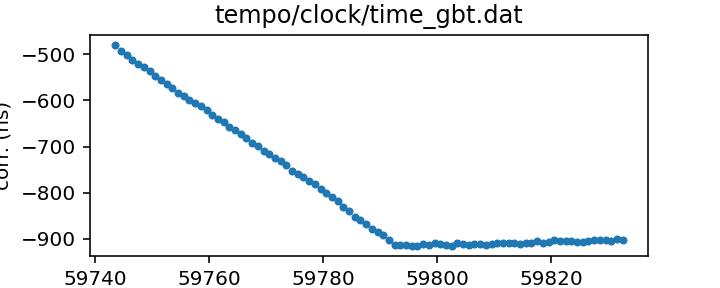
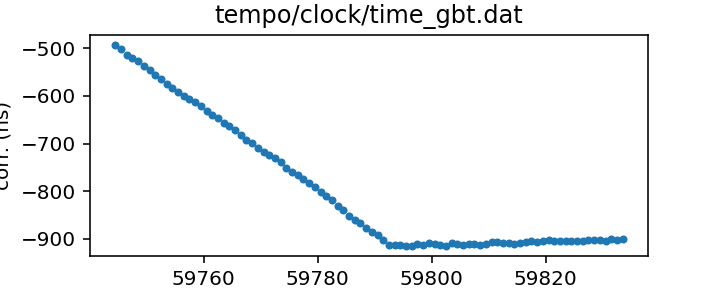
Routine gh-pages update from Github action Mon Sep 12 20:39:00 UTC 2022

diff --git a/status.md b/status.md
@@ -13,17 +13,17 @@ name of each clock file links to a page with more details.
 
 | Name | File | Corrections start | Corrections end | Last check date | Last check result 
 |:--- |:--- | --- | --- | --- |:--- 
-| [GPS to UTC](T2runtime/clock/gps2utc.clk.html) | `T2runtime/clock/gps2utc.clk` | 1993-01-01 MJD 48988.0 | 2022-08-28 MJD 59819.0 | 2022-09-11 | Unchanged 
-| [GPS to UTC (Combined Clock)](T2runtime/clock/gps2utc_cc.clk.html) | `T2runtime/clock/gps2utc_cc.clk` | 1993-01-01 MJD 48988.0 | 2022-08-28 MJD 59819.0 | 2022-09-11 | Unchanged 
-| [GPS to UTC (Corrected)](T2runtime/clock/gps2utc_c0p.clk.html) | `T2runtime/clock/gps2utc_c0p.clk` | 2010-12-29 MJD 55559.0 | 2022-08-28 MJD 59819.0 | 2022-09-11 | Unchanged 
-| [GBT](tempo/clock/time_gbt.dat.html) | `tempo/clock/time_gbt.dat` | 2000-12-31 MJD 51909.5 | 2022-09-10 MJD 59832.5 | 2022-09-11 | Updated 
-| [GBT (TEMPO2 converted from TEMPO)](T2runtime/clock/gbt2gps.clk.html) | `T2runtime/clock/gbt2gps.clk` | 2000-12-31 MJD 51909.5 | 2022-09-10 MJD 59832.5 | 2022-09-11 | Updated 
+| [GPS to UTC](T2runtime/clock/gps2utc.clk.html) | `T2runtime/clock/gps2utc.clk` | 1993-01-01 MJD 48988.0 | 2022-08-28 MJD 59819.0 | 2022-09-12 | Unchanged 
+| [GPS to UTC (Combined Clock)](T2runtime/clock/gps2utc_cc.clk.html) | `T2runtime/clock/gps2utc_cc.clk` | 1993-01-01 MJD 48988.0 | 2022-08-28 MJD 59819.0 | 2022-09-12 | Unchanged 
+| [GPS to UTC (Corrected)](T2runtime/clock/gps2utc_c0p.clk.html) | `T2runtime/clock/gps2utc_c0p.clk` | 2010-12-29 MJD 55559.0 | 2022-08-28 MJD 59819.0 | 2022-09-12 | Unchanged 
+| [GBT](tempo/clock/time_gbt.dat.html) | `tempo/clock/time_gbt.dat` | 2000-12-31 MJD 51909.5 | 2022-09-11 MJD 59833.5 | 2022-09-12 | Updated 
+| [GBT (TEMPO2 converted from TEMPO)](T2runtime/clock/gbt2gps.clk.html) | `T2runtime/clock/gbt2gps.clk` | 2000-12-31 MJD 51909.5 | 2022-09-11 MJD 59833.5 | 2022-09-12 | Updated 
 | [Jodrell Bank](T2runtime/clock/jb2gps.clk.html) | `T2runtime/clock/jb2gps.clk` | 2006-10-13 MJD 54021.4 | 2021-11-03 MJD 59521.0 | 2022-09-07 | Unchanged 
 | [Jodrell Bank Roach](T2runtime/clock/jbroach2jb.clk.html) | `T2runtime/clock/jbroach2jb.clk` | 2006-10-13 MJD 54021.4 | 2018-03-20 MJD 58197.6 | 2022-09-07 | Unchanged 
 | [Jodrell Bank DFB](T2runtime/clock/jbdfb2jb.clk.html) | `T2runtime/clock/jbdfb2jb.clk` | 2006-10-13 MJD 54021.4 | 2017-05-11 MJD 57884.0 | 2022-09-07 | Unchanged 
-| [Meerkat (observatory)](T2runtime/clock/mk2utc_observatory.clk.html) | `T2runtime/clock/mk2utc_observatory.clk` | 2019-01-01 MJD 58484.0 | 2022-08-17 MJD 59809.0 | 2022-09-05 | **Failed to download** 
-| [Leap seconds](tempo/clock/leap.sec.html) | `tempo/clock/leap.sec` | 1972-07-01 MJD 41499.0 | 2017-01-01 MJD 57754.0 | 2022-09-11 | Unchanged 
-| [UT1 table](tempo/clock/ut1.dat.html) | `tempo/clock/ut1.dat` | 1973-01-02 MJD 41684.0 | 2023-09-16 MJD 60203.0 | 2022-09-11 | Unchanged 
+| [Meerkat (observatory)](T2runtime/clock/mk2utc_observatory.clk.html) | `T2runtime/clock/mk2utc_observatory.clk` | 2019-01-01 MJD 58484.0 | 2022-08-17 MJD 59809.0 | 2022-09-12 | **Failed to download** 
+| [Leap seconds](tempo/clock/leap.sec.html) | `tempo/clock/leap.sec` | 1972-07-01 MJD 41499.0 | 2017-01-01 MJD 57754.0 | 2022-09-12 | Unchanged 
+| [UT1 table](tempo/clock/ut1.dat.html) | `tempo/clock/ut1.dat` | 1973-01-02 MJD 41684.0 | 2023-09-16 MJD 60203.0 | 2022-09-12 | Unchanged 
 
 
 
@@ -64,7 +64,7 @@ name of each clock file links to a page with more details.
 | Name | File | Corrections start | Corrections end | Last check date | Last check result 
 |:--- |:--- | --- | --- | --- |:--- 
 | [GPS to UTC (TEMPO2)](T2runtime/clock/gps2utc_tempo2.clk.html) | `T2runtime/clock/gps2utc_tempo2.clk` | 1996-03-27 MJD 50169.0 | 2020-10-27 MJD 59149.0 | 2022-09-08 | Unchanged 
-| [GBT (TEMPO2)](T2runtime/clock/gbt2gps_tempo2.clk.html) | `T2runtime/clock/gbt2gps_tempo2.clk` | 2000-12-31 MJD 51909.5 | 2020-02-25 MJD 58904.5 | 2022-09-05 | Unchanged 
+| [GBT (TEMPO2)](T2runtime/clock/gbt2gps_tempo2.clk.html) | `T2runtime/clock/gbt2gps_tempo2.clk` | 2000-12-31 MJD 51909.5 | 2020-02-25 MJD 58904.5 | 2022-09-12 | Unchanged 
 | [Jodrell Bank (TEMPO)](tempo/clock/time_jb.dat.html) | `tempo/clock/time_jb.dat` | 2006-10-13 MJD 54021.4 | 2019-05-13 MJD 58616.2 | 2022-09-08 | Unchanged 
 | [VLA](tempo/clock/time_vla.dat.html) | `tempo/clock/time_vla.dat` | 1990-10-27 MJD 48191.2 | 2021-03-07 MJD 59280.5 | 2022-09-08 | **Failed to download** 
 | [VLA (TEMPO2)](T2runtime/clock/vla2gps.clk.html) | `T2runtime/clock/vla2gps.clk` | 2015-02-01 MJD 57054.6 | 2021-03-07 MJD 59280.5 | 2022-09-07 | Unchanged 

diff --git a/T2runtime/clock/gbt2gps.clk.md b/T2runtime/clock/gbt2gps.clk.md
@@ -23,14 +23,13 @@ If questions arise about the conversion, contact Anne Archibald
 | Format | tempo2 |
 | Bogus last correction | False |
 | Clock file start | 2000-12-31 MJD 51909.5 |
-| Clock file end | 2022-09-10 MJD 59832.5 |
+| Clock file end | 2022-09-11 MJD 59833.5 |
 | Update interval (days) | 1 |
-| Last update attempt | 2022-09-11 |
+| Last update attempt | 2022-09-12 |
 | Last update result | Updated |
 
 Log entries from the last few update attempts:
 ```
-2022-09-02 20:34:53.274 - Updated
 2022-09-03 20:34:23.365 - Updated
 2022-09-04 20:35:17.118 - Updated
 2022-09-05 20:35:29.913 - Updated
@@ -40,12 +39,13 @@ Log entries from the last few update attempts:
 2022-09-09 20:38:13.407 - Updated
 2022-09-10 20:36:43.474 - Updated
 2022-09-11 20:36:52.202 - Updated
+2022-09-12 20:38:21.941 - Updated
 ```
 [Full log](https://raw.githubusercontent.com/ipta/pulsar-clock-corrections/main/log/T2runtime/clock/gbt2gps.clk.log)
 
 Leading comments from clock file:
 
-    # This file was automatically converted from tempo/clock/time_gbt.dat on 2022-09-11 20:36:52.134
+    # This file was automatically converted from tempo/clock/time_gbt.dat on 2022-09-12 20:38:21.861
 
 
 

diff --git a/T2runtime/clock/mk2utc_observatory.clk.md b/T2runtime/clock/mk2utc_observatory.clk.md
@@ -21,12 +21,11 @@ If questions arise, contact Ryan Shannon <rshannon@swin.edu.au>
 | Clock file start | 2019-01-01 MJD 58484.0 |
 | Clock file end | 2022-08-17 MJD 59809.0 |
 | Update interval (days) | 7 |
-| Last update attempt | 2022-09-05 |
+| Last update attempt | 2022-09-12 |
 | Last update result | Failed to download |
 
 Log entries from the last few update attempts:
 ```
-2022-07-04 14:50:38.399 - Unchanged
 2022-07-11 20:34:36.789 - Updated
 2022-07-18 20:34:30.484 - Unchanged
 2022-07-25 20:33:31.267 - Updated
@@ -36,6 +35,7 @@ Log entries from the last few update attempts:
 2022-08-22 20:33:37.370 - Unchanged
 2022-08-29 20:35:28.170 - Updated
 2022-09-05 20:35:40.782 - Failed to download: The read operation timed out
+2022-09-12 20:38:32.955 - Failed to download: The read operation timed out
 ```
 [Full log](https://raw.githubusercontent.com/ipta/pulsar-clock-corrections/main/log/T2runtime/clock/mk2utc_observatory.clk.log)
 

diff --git a/tempo/clock/time_gbt.dat.md b/tempo/clock/time_gbt.dat.md
@@ -18,14 +18,13 @@ If questions arise, contact Ryan S. Lynch <rlynch@nrao.edu>.
 | Format | tempo |
 | Bogus last correction | False |
 | Clock file start | 2000-12-31 MJD 51909.5 |
-| Clock file end | 2022-09-10 MJD 59832.5 |
+| Clock file end | 2022-09-11 MJD 59833.5 |
 | Update interval (days) | 1 |
-| Last update attempt | 2022-09-11 |
+| Last update attempt | 2022-09-12 |
 | Last update result | Updated |
 
 Log entries from the last few update attempts:
 ```
-2022-09-02 20:34:53.206 - Updated
 2022-09-03 20:34:23.288 - Updated
 2022-09-04 20:35:17.025 - Updated
 2022-09-05 20:35:29.421 - Updated
@@ -35,6 +34,7 @@ Log entries from the last few update attempts:
 2022-09-09 20:38:13.338 - Updated
 2022-09-10 20:36:43.384 - Updated
 2022-09-11 20:36:52.132 - Updated
+2022-09-12 20:38:21.645 - Updated
 ```
 [Full log](https://raw.githubusercontent.com/ipta/pulsar-clock-corrections/main/log/tempo/clock/time_gbt.dat.log)
 

diff --git a/T2runtime/clock/gbt2gps_tempo2.clk.md b/T2runtime/clock/gbt2gps_tempo2.clk.md
@@ -16,12 +16,11 @@ This file is pulled from the TEMPO2 repository and may not be fully up-to-date.
 | Clock file start | 2000-12-31 MJD 51909.5 |
 | Clock file end | 2020-02-25 MJD 58904.5 |
 | Update interval (days) | 7 |
-| Last update attempt | 2022-09-05 |
+| Last update attempt | 2022-09-12 |
 | Last update result | Unchanged |
 
 Log entries from the last few update attempts:
 ```
-2022-07-04 14:56:51.164 - Unchanged
 2022-07-11 20:34:33.244 - Unchanged
 2022-07-18 20:34:26.856 - Unchanged
 2022-07-25 20:33:27.345 - Unchanged
@@ -31,6 +30,7 @@ Log entries from the last few update attempts:
 2022-08-22 20:33:34.633 - Unchanged
 2022-08-29 20:35:24.374 - Unchanged
 2022-09-05 20:35:29.797 - Unchanged
+2022-09-12 20:38:21.860 - Unchanged
 ```
 [Full log](https://raw.githubusercontent.com/ipta/pulsar-clock-corrections/main/log/T2runtime/clock/gbt2gps_tempo2.clk.log)
 

diff --git a/T2runtime/clock/gps2utc_c0p.clk.md b/T2runtime/clock/gps2utc_c0p.clk.md
@@ -30,12 +30,11 @@ about the BIPM's published corrections, contact <tai@bipm.org>.
 | Clock file start | 2010-12-29 MJD 55559.0 |
 | Clock file end | 2022-08-28 MJD 59819.0 |
 | Update interval (days) | 1 |
-| Last update attempt | 2022-09-11 |
+| Last update attempt | 2022-09-12 |
 | Last update result | Unchanged |
 
 Log entries from the last few update attempts:
 ```
-2022-09-02 20:34:52.716 - Unchanged
 2022-09-03 20:34:22.345 - Unchanged
 2022-09-04 20:35:16.200 - Unchanged
 2022-09-05 20:35:28.600 - Unchanged
@@ -45,6 +44,7 @@ Log entries from the last few update attempts:
 2022-09-09 20:38:12.889 - Updated
 2022-09-10 20:36:42.421 - Unchanged
 2022-09-11 20:36:51.441 - Unchanged
+2022-09-12 20:38:20.855 - Unchanged
 ```
 [Full log](https://raw.githubusercontent.com/ipta/pulsar-clock-corrections/main/log/T2runtime/clock/gps2utc_c0p.clk.log)
 

diff --git a/T2runtime/clock/gps2utc_cc.clk.md b/T2runtime/clock/gps2utc_cc.clk.md
@@ -29,12 +29,11 @@ about the BIPM's published corrections, contact <tai@bipm.org>.
 | Clock file start | 1993-01-01 MJD 48988.0 |
 | Clock file end | 2022-08-28 MJD 59819.0 |
 | Update interval (days) | 1 |
-| Last update attempt | 2022-09-11 |
+| Last update attempt | 2022-09-12 |
 | Last update result | Unchanged |
 
 Log entries from the last few update attempts:
 ```
-2022-09-02 20:34:52.705 - Unchanged
 2022-09-03 20:34:22.332 - Unchanged
 2022-09-04 20:35:16.183 - Unchanged
 2022-09-05 20:35:28.587 - Unchanged
@@ -44,6 +43,7 @@ Log entries from the last few update attempts:
 2022-09-09 20:38:12.859 - Updated
 2022-09-10 20:36:42.407 - Unchanged
 2022-09-11 20:36:51.430 - Unchanged
+2022-09-12 20:38:20.842 - Unchanged
 ```
 [Full log](https://raw.githubusercontent.com/ipta/pulsar-clock-corrections/main/log/T2runtime/clock/gps2utc_cc.clk.log)
 

diff --git a/T2runtime/clock/gps2utc.clk.md b/T2runtime/clock/gps2utc.clk.md
@@ -32,12 +32,11 @@ about the BIPM's published corrections, contact <tai@bipm.org>.
 | Clock file start | 1993-01-01 MJD 48988.0 |
 | Clock file end | 2022-08-28 MJD 59819.0 |
 | Update interval (days) | 1 |
-| Last update attempt | 2022-09-11 |
+| Last update attempt | 2022-09-12 |
 | Last update result | Unchanged |
 
 Log entries from the last few update attempts:
 ```
-2022-09-02 20:34:52.673 - Unchanged
 2022-09-03 20:34:22.297 - Unchanged
 2022-09-04 20:35:16.130 - Unchanged
 2022-09-05 20:35:28.547 - Unchanged
@@ -47,6 +46,7 @@ Log entries from the last few update attempts:
 2022-09-09 20:38:12.778 - Updated
 2022-09-10 20:36:42.366 - Unchanged
 2022-09-11 20:36:51.397 - Unchanged
+2022-09-12 20:38:20.800 - Unchanged
 ```
 [Full log](https://raw.githubusercontent.com/ipta/pulsar-clock-corrections/main/log/T2runtime/clock/gps2utc.clk.log)
 

diff --git a/tempo/clock/leap.sec.md b/tempo/clock/leap.sec.md
@@ -21,12 +21,11 @@ If there are any questions, contact Anne Archibald
 | File start | 1972-07-01 MJD 41499.0 |
 | File end | 2017-01-01 MJD 57754.0 |
 | Update interval (days) | 0 |
-| Last update attempt | 2022-09-11 |
+| Last update attempt | 2022-09-12 |
 | Last update result | Unchanged |
 
 Log entries from the last few update attempts:
 ```
-2022-09-02 20:34:53.307 - Unchanged
 2022-09-03 20:34:23.411 - Unchanged
 2022-09-04 20:35:17.159 - Unchanged
 2022-09-05 20:35:40.803 - Unchanged
@@ -36,5 +35,6 @@ Log entries from the last few update attempts:
 2022-09-09 20:38:13.440 - Unchanged
 2022-09-10 20:36:43.525 - Unchanged
 2022-09-11 20:36:52.236 - Unchanged
+2022-09-12 20:38:32.980 - Unchanged
 ```
 [Full log](https://raw.githubusercontent.com/ipta/pulsar-clock-corrections/main/log/tempo/clock/leap.sec.log)

diff --git a/tempo/clock/ut1.dat.md b/tempo/clock/ut1.dat.md
@@ -30,12 +30,11 @@ If there are any questions, contact Anne Archibald
 | File start | 1973-01-02 MJD 41684.0 |
 | File end | 2023-09-16 MJD 60203.0 |
 | Update interval (days) | 0 |
-| Last update attempt | 2022-09-11 |
+| Last update attempt | 2022-09-12 |
 | Last update result | Unchanged |
 
 Log entries from the last few update attempts:
 ```
-2022-09-02 20:35:01.591 - Unchanged
 2022-09-03 20:34:37.201 - Unchanged
 2022-09-04 20:35:27.520 - Unchanged
 2022-09-05 20:35:51.501 - Unchanged
@@ -45,5 +44,6 @@ Log entries from the last few update attempts:
 2022-09-09 20:38:23.093 - Unchanged
 2022-09-10 20:36:56.168 - Unchanged
 2022-09-11 20:37:01.365 - Unchanged
+2022-09-12 20:38:40.801 - Unchanged
 ```
 [Full log](https://raw.githubusercontent.com/ipta/pulsar-clock-corrections/main/log/tempo/clock/ut1.dat.log)
